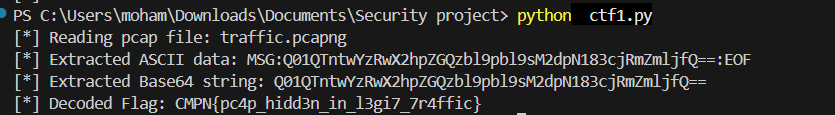
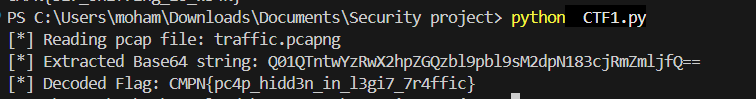
final edits

diff --git a/modules/elgamal.py b/modules/elgamal.py
@@ -16,16 +16,10 @@ def read_parameters(config_file="data/config.json"):
         data = json.load(file)
         
     #extract p and alpha for mathematical operations
-    try:
+    
         p = int(data['p'])
         alpha = int(data['alpha'])
         
-    except KeyError as e:
-        raise KeyError(f"Missing parameter in configuration file : {e}")
-    except ValueError:
-        raise ValueError("Parameters must be integers.")
-    
-    print(f"[*] Parameters loaded successfully: p={p}, alpha={alpha}")
     return p,alpha
 
 #Step 2 : private key generation and saving
@@ -37,16 +31,16 @@ def generate_private_key(p):
     #random depends on pseudorandom generator which can be predicted 
     #secrets depends on the operating system's randomness that can be more secure and less predicatble
     
-    x = secrets.randbelow(p - 3) + 2
+    private_key_x = secrets.randbelow(p - 3) + 2
     
     #randbelow(p-1) generates a random number between 0 and p-2
     #randbelow(p-3) generates a random number between 0 and p-4
     #adding 2 to the results shifts the range by 2 resulting in a range of 2 to p-2 as required
     
-    return x
+    return private_key_x
 
 
-def save_private_key(username , x):
+def save_private_key_locally(username , x):
     
     #private key is to be saved locally in a file named after the username
     
@@ -54,12 +48,12 @@ def save_private_key(username , x):
     
     key_data = {
         "username" : username,
-        "private_key" : str(x) #casted to string to handle large integers
+        "private_key" : str(x) 
     }
     
     #write the private key data to the JSON file , indentation added for readability
     with open(filename, 'w') as file:
-        json.dump(key_data, file , indent=4)
+        json.dump(key_data, file)
         
     print(f" [*] Private key for '{username}' saved successfully")
     
@@ -69,10 +63,10 @@ def generate_public_key(p , alpha , x):
         
         #compute public key y = alpha^x mod p
         
-        y = pow(alpha , x , p)
-        return y
+        public_key_y = pow(alpha , x , p)
+        return public_key_y
     
-def save_public_key(username , p , alpha , y):
+def save_public_key_locally(username , p , alpha , y):
         
         #save public key locally and then it can be shared with others
         filename = f"keys/{username}_public_key.json"
@@ -86,7 +80,7 @@ def save_public_key(username , p , alpha , y):
         
         #write the public key data to the JSON file , indentation added for readability
         with open(filename, 'w') as file:
-            json.dump(key_data, file , indent=4)
+            json.dump(key_data, file)
             
         print(f" [*] Public key for '{username}' saved successfully")
         
@@ -105,6 +99,6 @@ if __name__ == "__main__":
         # Run your initialization steps here
         p, alpha = read_parameters()
         x = generate_private_key(p)
-        save_private_key(username, x)
+        save_private_key_locally(username, x)
         y = generate_public_key(p, alpha, x)
-        save_public_key(username, p, alpha, y)
+        save_public_key_locally(username, p, alpha, y)

diff --git a/CTF/CTF1.py b/CTF/CTF1.py
@@ -5,47 +5,32 @@ import binascii
 def ctf1(pcap_file):
     print(f"[*] Reading pcap file: {pcap_file}")
     
-    try:
-        packets = rdpcap(pcap_file)
-    except FileNotFoundError:
-        print(f"[!] File not found.")
-        return
+    packets = rdpcap(pcap_file)
+   
     
     # empty byte string to concatenate the data from packets
-    raw_data = b""
+    extracted_data = b""
     
     # extract payload from port 4444
     for packet in packets:
-        if TCP in packet and (packet[TCP].sport == 4444 or packet[TCP].dport == 4444):
-            if packet.haslayer("Raw"):
-                raw_data += bytes(packet["Raw"].load)
+        
+        if packet.haslayer(TCP) and packet.haslayer("Raw"):
+            if packet[TCP].dport == 4444 or packet[TCP].sport == 4444:
+                extracted_data += bytes(packet["Raw"].load)
                 
-    if not raw_data:
-        print("[-] No data found on port 4444.")
-        return
-    
-    # clean the extracted hex data and decode the Hex to ASCII
-    try:
-       
-        ascii_data = raw_data.decode('utf-8', errors='ignore')
-        
-        ascii_data = ascii_data.replace("\n", "").replace("\r", "")
-        
-        print(f"[*] Extracted ASCII data: {ascii_data}")
-        
+                        
         # extract the base64 encoded between MSG: and :EOF
-        if "MSG:" in ascii_data and ":EOF" in ascii_data:
-            b64_string = ascii_data.split("MSG:")[1].split(":EOF")[0]
-        
+    if b"MSG:" in extracted_data and b":EOF" in extracted_data:
+        base64_bytes = extracted_data.split(b"MSG:")[1].split(b":EOF")[0]
             
-        print(f"[*] Extracted Base64 string: {b64_string}")
+        base64_string = base64_bytes.decode('utf-8')
+            
+        print(f"[*] Extracted Base64 string: {base64_string}")
         
         # decode the base64 string to get the flag
-        flag = base64.b64decode(b64_string).decode('utf-8')
+        flag = base64.b64decode(base64_string).decode('utf-8')
         print(f"[*] Decoded Flag: {flag}")
-        
-    except Exception as e:
-        print(f"[!] Error decoding data: {e}")
+   
     
 if __name__ == "__main__":
     ctf1("traffic.pcapng")

diff --git a/CTF/CTF3.py b/CTF/CTF3.py
@@ -2,20 +2,17 @@ def ctf3(filename):
     
     print(f"[*] Reading file: {filename}")
     
-    try:
-        with open(filename, 'r') as f:
-            data = f.read().split()
-            
-    except FileNotFoundError:
-        print(f"[!] File not found.")
-        return
     
-    flag = ""
+    with open(filename, 'r') as f:
+        extracted_data = f.read().split()
     
-    for number_str in data:
+    
+    final_flag = ""
+    
+    for number_string in extracted_data:
         
         #convert text string into actual integer
-        shifted_value = int(number_str)
+        shifted_value = int(number_string)
         
         #reverse left shift by right shifting
         
@@ -23,11 +20,11 @@ def ctf3(filename):
         
         #convert the ascii decimal back to text
         
-        character = chr(original_value)
+        ascii_character = chr(original_value)
         
-        flag += character
+        final_flag += ascii_character
         
-    print(f"\n[+] Decoded flag: \n{flag}")
+    print(f"\n[+] Decoded flag: \n{final_flag}")
         
 if __name__ == "__main__":
     ctf3("shifted.txt")
